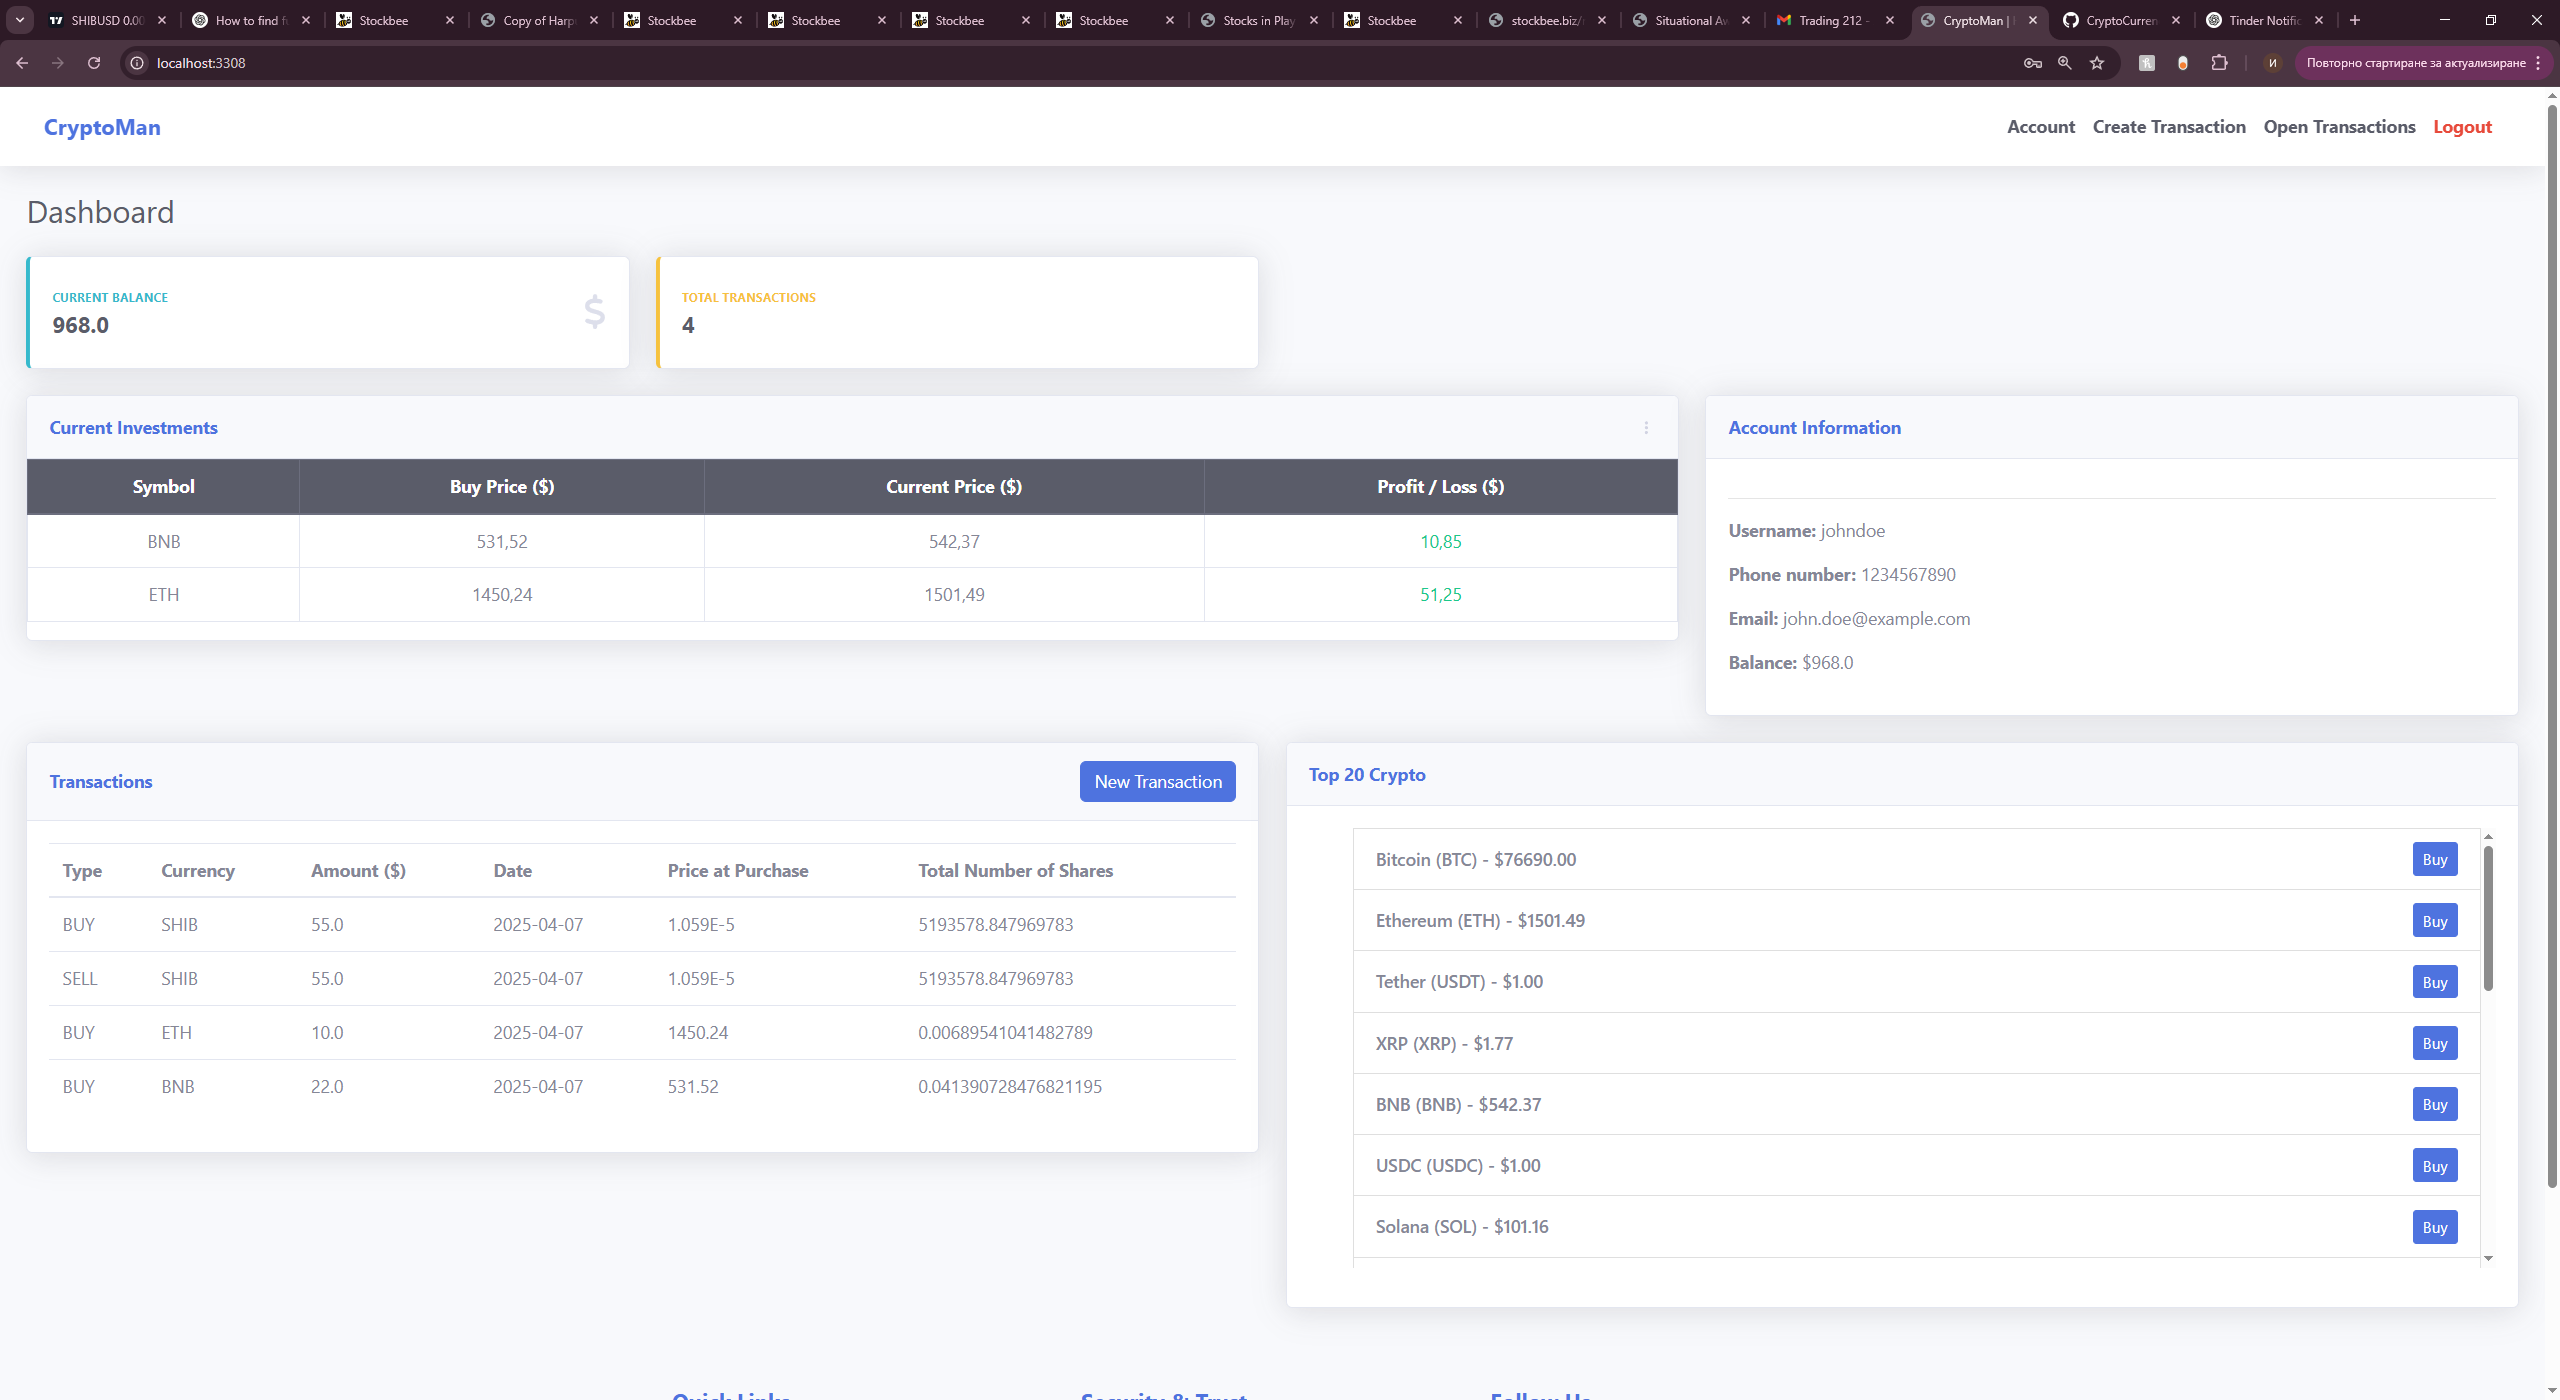
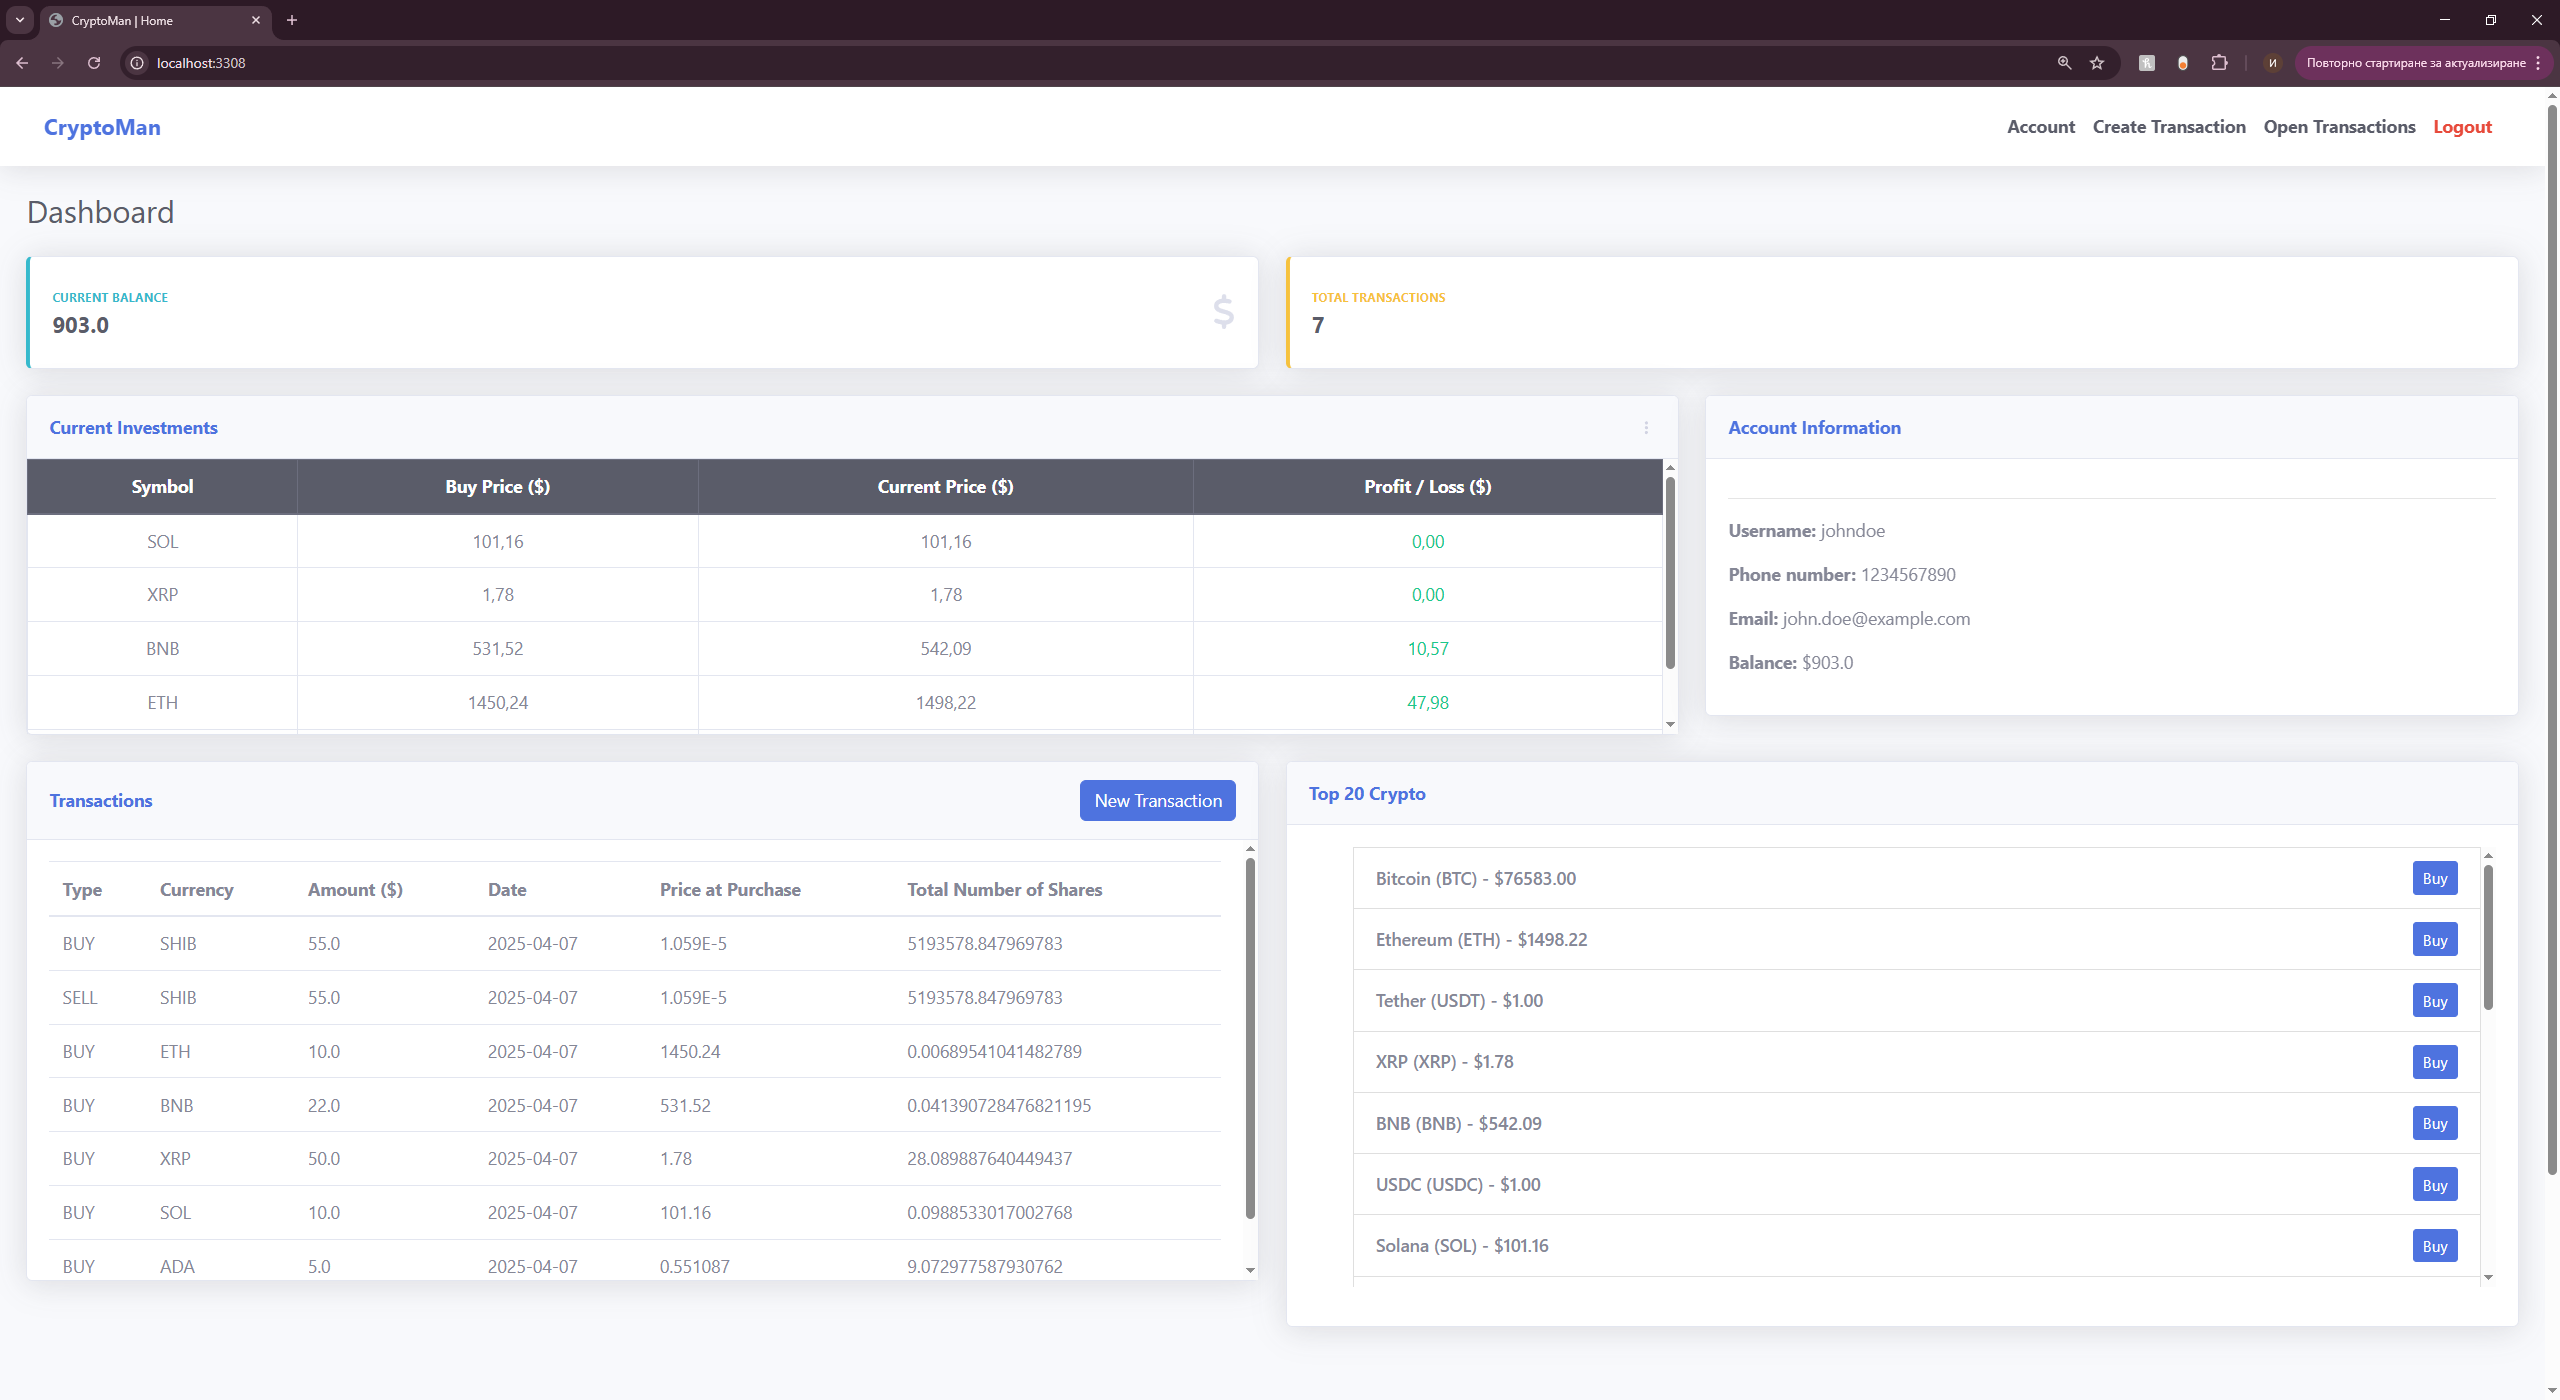
Implementing README.md & About page

diff --git a/src/main/resources/templates/About.html b/src/main/resources/templates/About.html
@@ -1,0 +1,61 @@
+<!DOCTYPE html>
+<html lang="en" xmlns:th="http://www.thymeleaf.org">
+<head th:replace="~{fragments/PageLayout.html :: head('About')}"></head>
+<body class="d-flex flex-column min-vh-100">
+
+<nav th:replace="~{fragments/PageLayout.html :: navbar}"></nav>
+<br/><br/>
+<section class="container my-5">
+  <div class="text-center">
+    <h1 class="display-4">About CryptoMan</h1>
+    <p class="lead">Your modern, fast, and simple cryptocurrency trading platform.</p>
+  </div>
+
+  <hr/>
+
+  <div class="mt-4">
+    <h2>What is CryptoMan?</h2>
+    <p>
+      <strong>CryptoMan</strong> is a user-friendly digital cryptocurrency trading platform that allows users to effortlessly buy and sell crypto at the push of a button.
+      It integrates a live API for the latest crypto prices — updated every 60 seconds — and provides powerful tools to help users monitor, manage, and analyze their crypto portfolio.
+    </p>
+  </div>
+
+  <div class="mt-4">
+    <h2>Key Features</h2>
+    <ul>
+      <li><strong>Buy & Sell Crypto</strong> – Purchase by specifying the dollar amount, no need to calculate exact shares.</li>
+      <li><strong>Transaction History</strong> – Track all transactions, both open and closed.</li>
+      <li><strong>Open Positions</strong> – View live data on current holdings, profit/loss, and price movement.</li>
+      <li><strong>Top 20 Cryptocurrencies</strong> – Get updated prices for the most popular cryptocurrencies globally.</li>
+      <li><strong>Clean UI</strong> – Intuitive and visually organized dashboard for a smooth user experience.</li>
+    </ul>
+  </div>
+
+  <div class="mt-4">
+    <h2>Technologies Used</h2>
+    <p>CryptoMan is built using a modern Java tech stack:</p>
+    <ul>
+      <li>Java 17</li>
+      <li>Spring Boot & Spring MVC</li>
+      <li>Spring Data JPA (migrating to JdbcTemplate)</li>
+      <li>Thymeleaf for server-side rendering</li>
+      <li>MariaDB & SQL</li>
+      <li>Gradle for build automation</li>
+      <li>JUnit & Mockito for testing</li>
+    </ul>
+  </div>
+
+  <div class="mt-4">
+    <h2>About the Developer</h2>
+    <p>
+      Developed by <strong>Ivan Georgiev</strong> ([ivan200126y](https://github.com/ivan200126y)). This project was built with care and attention to detail as part of a practical training in Spring Boot web applications.
+    </p>
+  </div>
+</section>
+
+<footer th:replace="~{fragments/PageLayout.html :: footer}"></footer>
+<div th:replace="~{fragments/PageLayout.html :: scripts}"></div>
+
+</body>
+</html>

diff --git a/src/main/resources/templates/home.html b/src/main/resources/templates/home.html
@@ -23,7 +23,7 @@
                 <!-- Content Row -->
                 <div class="row">
 
-                    <div class="col-xl-3 col-md-6 mb-4">
+                    <div class="col-md-6 mb-4">
                         <div class="card border-left-info shadow h-100 py-2">
                             <div class="card-body">
                                 <div class="row no-gutters align-items-center">
@@ -44,7 +44,7 @@
                     </div>
 
                     <!-- Pending Requests Card Example -->
-                    <div class="col-xl-3 col-md-6 mb-4">
+                    <div class="col-md-6 mb-4">
                         <div class="card border-left-warning shadow h-100 py-2">
                             <div class="card-body">
                                 <div class="row no-gutters align-items-center">
@@ -217,7 +217,7 @@
                         <div class="card shadow mb-4">
                             <div class="card-header py-3">
                                 <a class="m-0 font-weight-bold text-primary"
-                                   th:href="@{https://edition.cnn.com/business/index.html}"
+                                   th:href="@{https://www.coindesk.com/}"
                                    target="_blank">Top 20 Crypto</a>
                             </div>
                             <div class="card-body">

diff --git a/src/main/resources/templates/fragments/PageLayout.html b/src/main/resources/templates/fragments/PageLayout.html
@@ -27,9 +27,9 @@
     </button>
     <div class="collapse navbar-collapse" id="navbarResponsive">
       <ul class="navbar-nav ml-auto">
-<!--        <li class="nav-item">-->
-<!--          <a class="nav-link text-primary font-weight-bold" th:href="@{/about}">About</a>-->
-<!--        </li>-->
+        <li class="nav-item">
+          <a class="nav-link text-primary font-weight-bold" th:href="@{/about}">About</a>
+        </li>
         <li class="nav-item" th:if="${isAuthenticated}">
           <a class="nav-link text-dark font-weight-bold" th:href="@{/auth/account}">Account</a>
         </li>

diff --git a/src/main/resources/templates/TransactionsView.html b/src/main/resources/templates/TransactionsView.html
@@ -70,6 +70,10 @@
              class="list-group-item d-flex justify-content-between align-items-center border-bottom py-3">
 
             <div class="d-flex flex-column">
+                <span th:text="${#temporals.format(transaction.createdAt, 'yyyy-MM-dd')}"></span>
+            </div>
+
+            <div class="d-flex flex-column">
                     <span th:text="${transaction.currency}"></span>
             </div>
 

diff --git a/src/main/java/com/telerikacademy/web/cryptocurrency_trading_platform/controllers/mvc/HomeMvcController.java b/src/main/java/com/telerikacademy/web/cryptocurrency_trading_platform/controllers/mvc/HomeMvcController.java
@@ -56,19 +56,6 @@ public class HomeMvcController {
 
             Integer countTransactions = transactions.size();
 
-//            Map<String, List<Transaction>> totalBuy = allUserTransactions
-//                    .stream()
-//                    .filter(t -> t.getStatus() == Status.BUY)
-//                    .collect(Collectors.groupingBy(Transaction::getCurrency));
-//
-//            Map<String, List<Transaction>> totalSell = allUserTransactions
-//                    .stream()
-//                    .filter(t -> t.getStatus() == Status.SELL)
-//                    .collect(Collectors.groupingBy(Transaction::getCurrency));
-//
-//            List<OpenTransaction> openTransactions =
-//                    transactionMapper.fromTransactionListToOpenTransactionList(transactions);
-
             Map<String, List<Transaction>> totalOutgoing = transactions
                     .stream()
                     .filter(t -> t.getStatus() == Status.BUY)
@@ -120,5 +107,10 @@ public class HomeMvcController {
         } catch (AuthenticationFailureException e) {
             return "AccessDenied";
         }
+    }
+
+    @GetMapping("/about")
+    public String showAboutPage(){
+        return "About";
     }
 }

diff --git a/README.md b/README.md
@@ -68,3 +68,27 @@ Mockito
 ## Functionalities
 **Main Page**
 ![Main Page](screenshots/main-page.png)
+
+**Open Transactions**
+![Account](screenshots/open-positions.png)
+
+**Create Transaction**
+![Account](screenshots/create-transaction.png)
+
+**Account**
+![Account](screenshots/account.png)
+
+**About**
+![Account](screenshots/about.png)
+
+**Transactions**
+![Account](screenshots/transactions.png)
+
+**LogIn**
+![Account](screenshots/account.png)
+
+**Register**
+![Account](screenshots/account.png)
+
+**Database Schema**
+![Account](screenshots/account.png)
